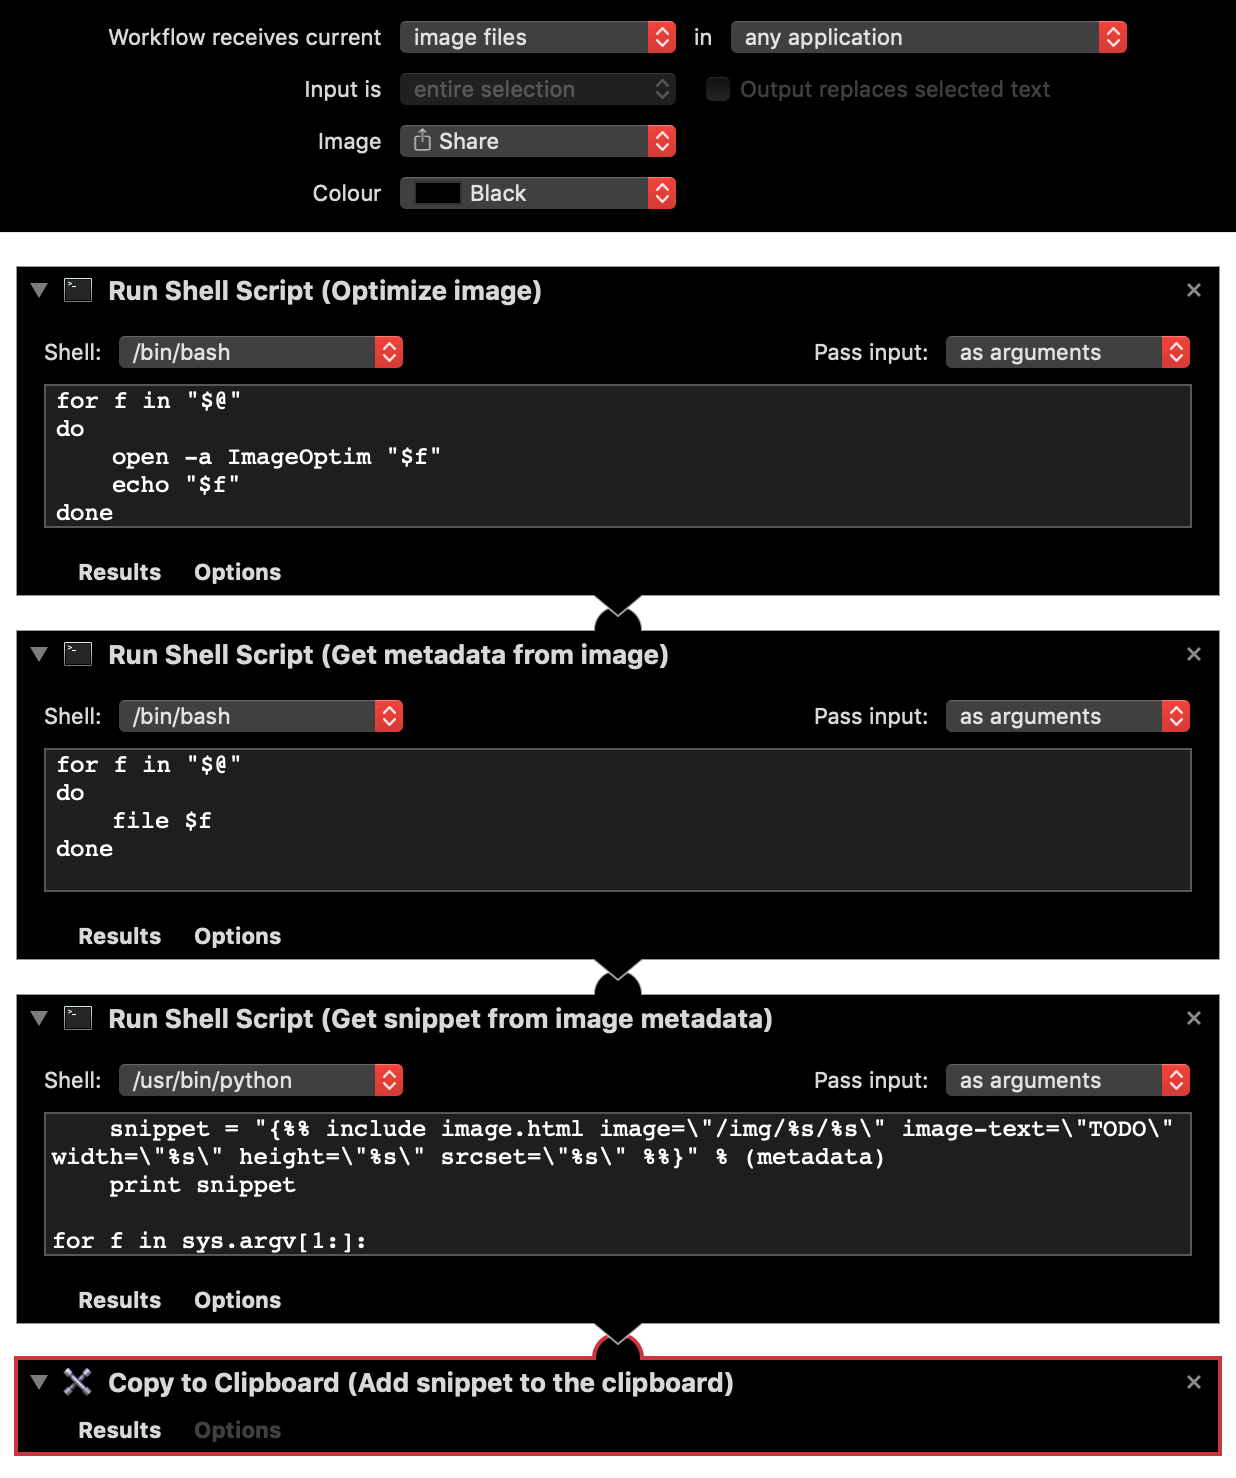
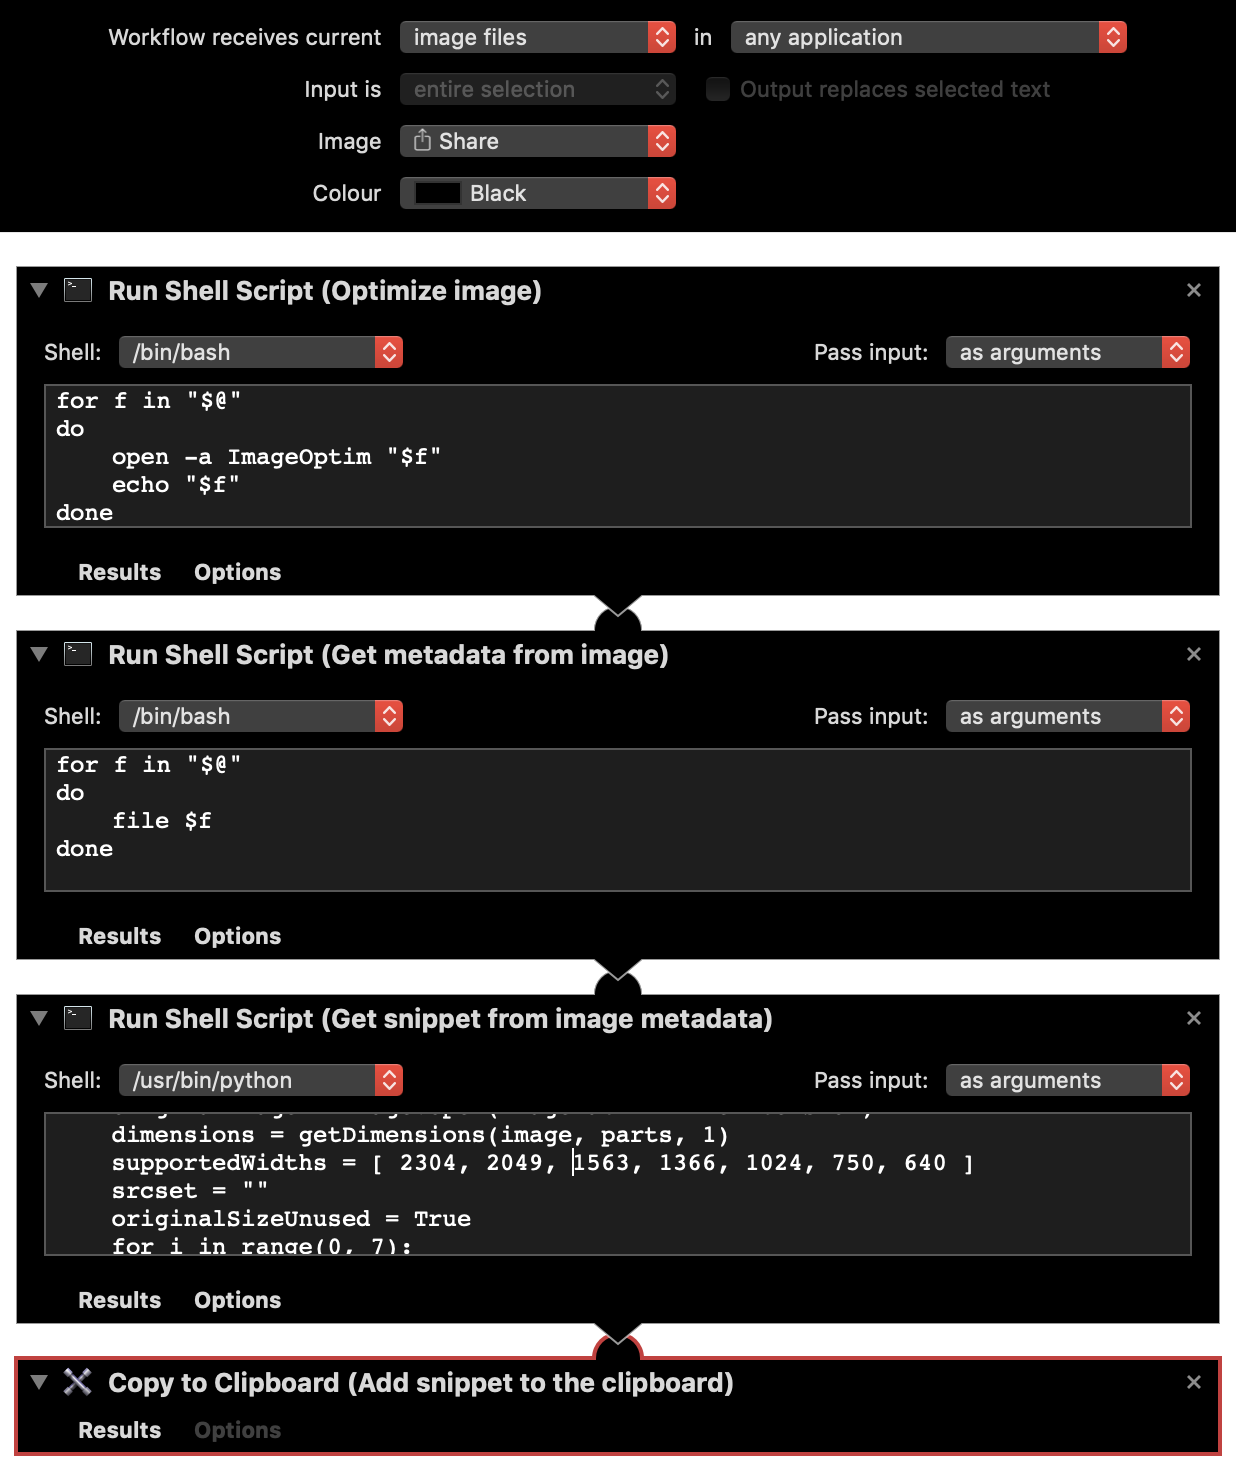
:sparkles: Added another breakpoint

Changed region(s): [[0.0307, 0.747, 0.9223, 0.8714]]

diff --git a/get-snippet-same-folder.py b/get-snippet-same-folder.py
@@ -54,10 +54,10 @@ def createSmallerImages(image, parts, naming):
     folderName = naming[0]
     originalImage = Image.open(imagePath + fileExtension)
     dimensions = getDimensions(image, parts, 1)
-    supportedWidths = [ 2304, 1563, 1366, 1024, 750, 640 ]
+    supportedWidths = [ 2304, 2049, 1563, 1366, 1024, 750, 640 ]
     srcset = ""
     originalSizeUnused = True
-    for i in range(0, 6):
+    for i in range(0, 7):
         filePostfix = ""
         if (dimensions[0] > supportedWidths[i]):
             
